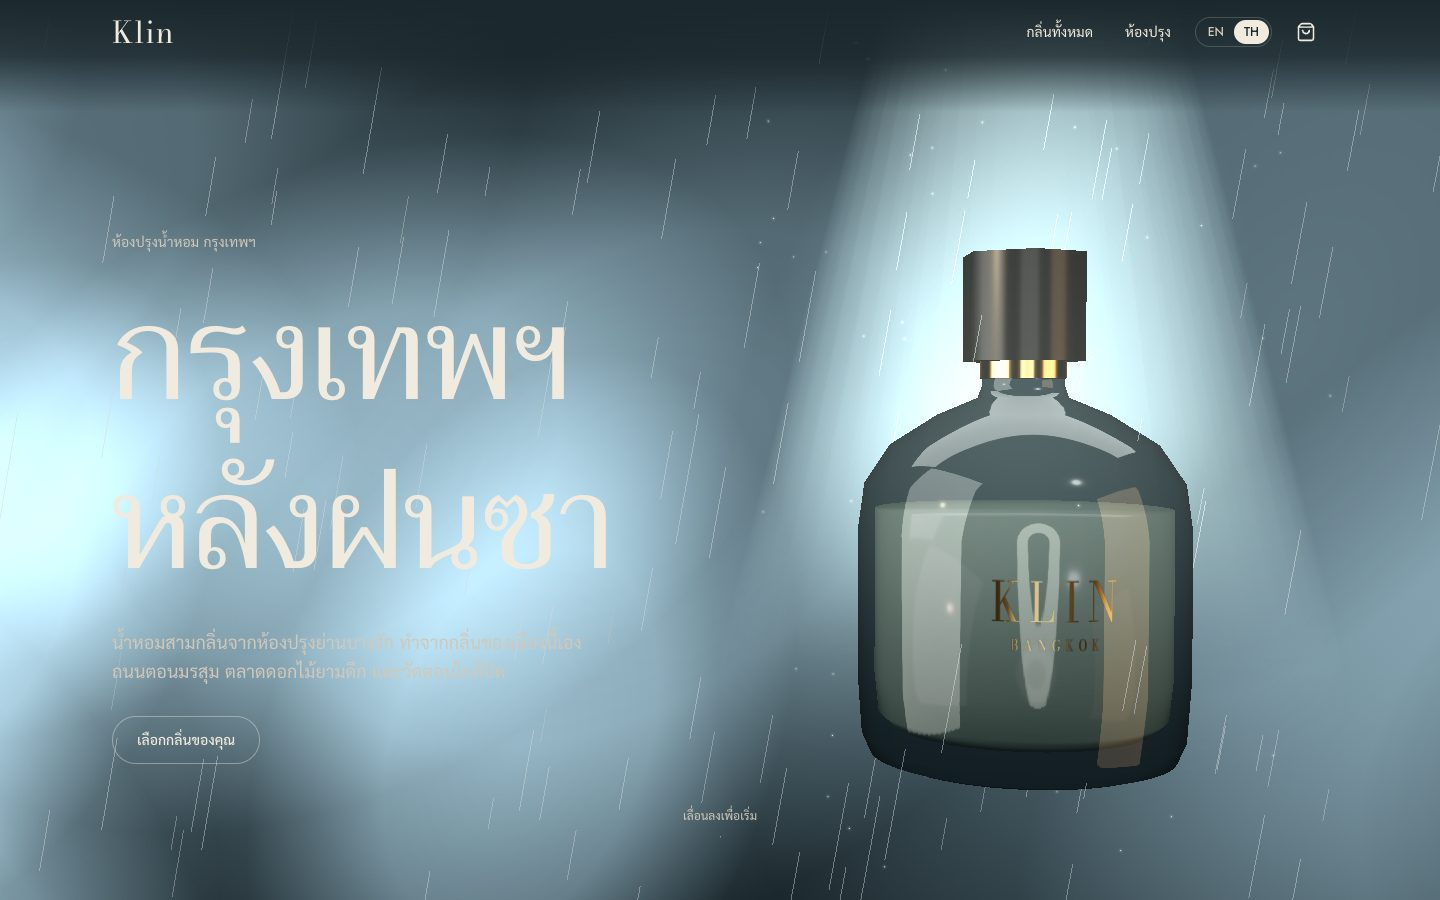
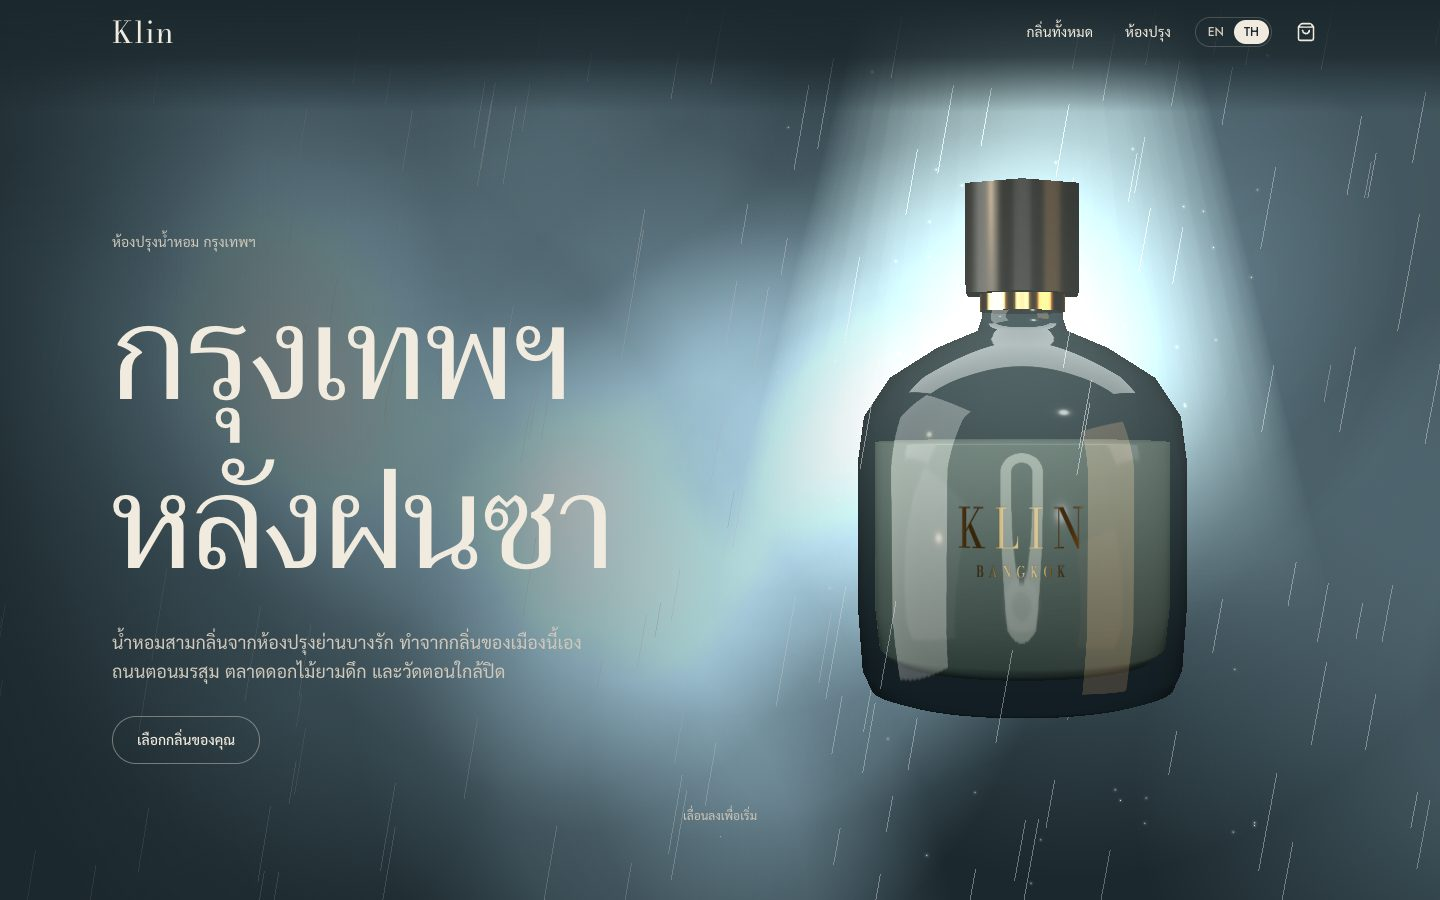
Move Klin's camera along a cinematic path through the chapters
The camera now travels one smooth curve of shots as the page scrolls:
the storm straight on, low across the wet stone for Monsoon, circling
above the jasmine, close on the wood for Agarwood, and pulled back for
the collection. It orbits the bottle, and a lens shift keeps the bottle
beside the text (right third on wide screens, upper screen on phones).
Reduced motion keeps a single view.

The storm's mist now gathers around the bottle, and a soft fade behind
the hero text keeps the headline readable through lightning.

diff --git a/src/features/klin/components/scene.tsx b/src/features/klin/components/scene.tsx
@@ -8,7 +8,7 @@ import * as THREE from "three"
 import { createRandom } from "@/lib/random"
 import { scents, type ScentId } from "../data/scents"
 import { bottleProfile, liquidProfile, sizeFactors } from "../lib/bottle"
-import { lightning, mixHex, nextTier, type SceneState, type Tier } from "../lib/story"
+import { CAMERA_SHOTS, cameraShot, lightning, mixHex, nextTier, type CameraShot, type SceneState, type Tier } from "../lib/story"
 
 /**
  * The fixed WebGL layer behind the page, painted in the page's own colour: a
@@ -56,7 +56,7 @@ export function KlinScene({ state, still: reduced, size }: { state: RefObject<Sc
         <Lightformer form="ring" intensity={2} position={[0, 0, 4]} scale={2} />
       </Environment>
       {!still && <Governor rich={rich} tier={tier} onChange={setTier} />}
-      <Story state={state} still={still} rich={tier === "full"} size={size} />
+      <Story state={state} still={still} calm={reduced} rich={tier === "full"} size={size} />
       {tier === "full" && (
         <EffectComposer multisampling={4}>
           <Bloom mipmapBlur intensity={0.85} luminanceThreshold={0.62} luminanceSmoothing={0.25} />
@@ -101,7 +101,7 @@ function Backdrop({ state, still }: { state: RefObject<SceneState>; still: boole
     const s = state.current
     if (!s) return
     const bolt = still ? 0 : lightning(clock.elapsedTime) * s.storm
-    paintBackdrop(scene, mixHex(s.backdrop, "#6f8d99", bolt * 0.35))
+    paintBackdrop(scene, mixHex(s.backdrop, "#6f8d99", bolt * 0.25))
     if (flash.current) flash.current.intensity = bolt * 90
   })
   return <pointLight ref={flash} position={[1, 6, -3]} distance={20} color="#cfe6ff" intensity={0} />
@@ -115,16 +115,26 @@ function paintBackdrop(scene: THREE.Scene, colour: string) {
 }
 
 /**
- * Pulls the camera back for the line-up, drifts it a little, and once the
- * collection scrolls up the screen raises it by the same share of its view,
- * so the bottles leave with the page.
+ * Puts the camera on its shot around the bottle (`target`), drifting a touch
+ * and following the pointer, then shifts the lens so the bottle sits beside
+ * the text instead of behind it: in the right third on wide screens, the upper
+ * part of a phone screen. Once the collection scrolls up the screen, camera
+ * and aim rise together by the same share of the view, so the bottles leave
+ * with the page.
  */
-function frameCamera(camera: THREE.PerspectiveCamera, distance: number, exit: number, drift: number) {
-  camera.position.z = distance
-  const viewHeight = 2 * distance * Math.tan(THREE.MathUtils.degToRad(camera.fov / 2))
-  camera.position.x = drift
-  camera.position.y = 0.2 - exit * viewHeight
-  camera.lookAt(0, camera.position.y - 0.2, 0)
+function frameCamera(
+  camera: THREE.PerspectiveCamera,
+  shot: CameraShot,
+  target: THREE.Vector3,
+  exit: number,
+  lens: { width: number; height: number; x: number; y: number },
+) {
+  const viewHeight = 2 * shot.radius * Math.tan(THREE.MathUtils.degToRad(camera.fov / 2))
+  const lift = exit * viewHeight
+  const flat = shot.radius * Math.cos(shot.elevation)
+  camera.position.set(target.x + flat * Math.sin(shot.azimuth), target.y + shot.radius * Math.sin(shot.elevation) - lift, target.z + flat * Math.cos(shot.azimuth))
+  camera.lookAt(target.x, target.y - lift, target.z)
+  camera.setViewOffset(lens.width, lens.height, lens.x, lens.y, lens.width, lens.height)
 }
 
 /** Eases a bottle's width and height (from its base) toward a size's proportions. */
@@ -137,11 +147,32 @@ function shapeToSize(group: THREE.Group, [width, height]: [number, number], dt: 
   group.position.y = 0.6 * (group.scale.y - 1)
 }
 
+function lerpShot(from: CameraShot, to: CameraShot, k: number): CameraShot {
+  return {
+    radius: THREE.MathUtils.lerp(from.radius, to.radius, k),
+    azimuth: THREE.MathUtils.lerp(from.azimuth, to.azimuth, k),
+    elevation: THREE.MathUtils.lerp(from.elevation, to.elevation, k),
+  }
+}
+
 const SLOT = 2.1
 /** The line-up stands in the upper half of the screen, above the collection cards. */
 const LINEUP_Y = 0.45
 
-function Story({ state, still, rich, size }: { state: RefObject<SceneState>; still: boolean; rich: boolean; size: RefObject<ChosenSize> }) {
+function Story({
+  state,
+  still,
+  calm,
+  rich,
+  size,
+}: {
+  state: RefObject<SceneState>
+  still: boolean
+  /** Reduced motion: the camera keeps one view instead of travelling with the scroll. */
+  calm: boolean
+  rich: boolean
+  size: RefObject<ChosenSize>
+}) {
   const hero = useRef<THREE.Group>(null)
   const shape = useRef<THREE.Group>(null)
   const leftShape = useRef<THREE.Group>(null)
@@ -152,6 +183,7 @@ function Story({ state, still, rich, size }: { state: RefObject<SceneState>; sti
   const heroLiquid = useRef<THREE.MeshPhysicalMaterial>(null)
   const pointer = useRef({ x: 0, y: 0 })
   const intro = useRef(still ? 1 : 0)
+  const aim = useMemo(() => new THREE.Vector3(), [])
   const { size: viewport, invalidate } = useThree()
   const narrow = viewport.width < 768
 
@@ -219,8 +251,20 @@ function Story({ state, still, rich, size }: { state: RefObject<SceneState>; sti
       group.current.rotation.y += still ? 0 : dt * 0.25
     }
 
-    const drift = still ? 0 : Math.sin(clock.elapsedTime * 0.12) * 0.12
-    frameCamera(camera as THREE.PerspectiveCamera, THREE.MathUtils.lerp(7, narrow ? 8.5 : 7.6, lineup), s.exit, drift)
+    // The camera travels its path of shots with the scroll (one fixed view for reduced motion), aimed at
+    // the middle of the resting bottle (not its rise or bob) or of the line-up
+    const path = calm ? lerpShot(CAMERA_SHOTS[0], CAMERA_SHOTS[CAMERA_SHOTS.length - 1], lineup) : cameraShot(s.shot)
+    const sway = still ? 0 : Math.sin(clock.elapsedTime * 0.12) * 0.03 + pointer.current.x * 0.05
+    const shot = { ...path, azimuth: path.azimuth + sway, radius: path.radius * (narrow ? THREE.MathUtils.lerp(1, 1.12, lineup) : 1) }
+    aim.set(THREE.MathUtils.lerp(narrow ? 0 : 1.35, 0, lineup), THREE.MathUtils.lerp(baseY + 0.585 * scale, LINEUP_Y + 0.585 * lineupScale, lineup), 0)
+    frameCamera(camera as THREE.PerspectiveCamera, shot, aim, s.exit, {
+      width: viewport.width,
+      height: viewport.height,
+      // Wide screens: the bottle in the right third beside the text, then the line-up centred above the
+      // collection cards. Phones: always in the upper part of the screen, above the text panels.
+      x: narrow ? 0 : -0.21 * viewport.width * (1 - lineup),
+      y: (narrow ? 0.24 : 0.2 * lineup) * viewport.height,
+    })
   })
 
   return (
@@ -701,13 +745,15 @@ function Mist({ state, still }: { state: RefObject<SceneState>; still: boolean }
   const dummy = useMemo(() => new THREE.Object3D(), [])
   const tint = useMemo(() => new THREE.Color(), [])
   const texture = useMemo(() => softDisc(), [])
-  const list = useMemo(() => puffs("klin:mist", MIST, [14, 6, 3], [2.5, 5]), [])
+  const list = useMemo(() => puffs("klin:mist", MIST, [8, 5, 3], [2.2, 4]), [])
   useFrame(({ clock, size }) => {
     const s = state.current
     if (!mesh.current || !s) return
     mesh.current.visible = s.storm > 0.01
-    const strength = s.storm * (size.width < 768 ? 0.07 : 0.16)
-    if (mesh.current.visible) placePuffs(mesh.current, dummy, tint, list, still ? 0 : clock.elapsedTime, strength, false, "#9fb6c2", 0)
+    const narrow = size.width < 768
+    const strength = s.storm * (narrow ? 0.06 : 0.075)
+    // Centred on the bottle (the camera aims there), so the brightest cloud stays behind it, not the headline
+    if (mesh.current.visible) placePuffs(mesh.current, dummy, tint, list, still ? 0 : clock.elapsedTime, strength, false, "#9fb6c2", narrow ? 0 : 1.35)
   })
   return (
     <instancedMesh ref={mesh} args={[undefined, undefined, MIST]} visible={false}>

diff --git a/src/features/klin/lib/story.ts b/src/features/klin/lib/story.ts
@@ -1,3 +1,4 @@
+import { CatmullRomCurve3, Vector3 } from "three"
 import { scents, type Scent } from "../data/scents"
 
 /** "#1b282d" → [27, 40, 45] */
@@ -48,6 +49,8 @@ export interface SceneState {
   exit: number
   /** The hero's storm (lightning, mist), fading as the hero scrolls away, 0–1. */
   storm: number
+  /** Position along the camera path (see `cameraShot`), 0–4. */
+  shot: number
   /** How much of each floor shows under the bottle: none in the storm, then each chapter's own. */
   stone: number
   lacquer: number
@@ -95,6 +98,7 @@ export function sceneAt({ hero, chapter, lineup, exit = 0 }: StoryPosition): Sce
     lineup: smoothstep(lineup),
     exit: Math.max(0, exit),
     storm: 1 - smoothstep(hero),
+    shot: shotProgress({ hero, chapter, lineup }),
     stone: weight("rain") * smoothstep(hero),
     lacquer: weight("petals") * smoothstep(hero),
     wood: weight("embers") * smoothstep(hero),
@@ -156,4 +160,42 @@ export function nextTier(tier: Tier, readings: readonly number[], canBeFull: boo
   if (tier === "full" && recent.every((fps) => fps < 30)) return "light"
   if (tier === "light" && recent.every((fps) => fps < 15)) return "still"
   return tier
+}
+
+/** Where the camera sits around the bottle: distance, angle round it (radians, + to the right) and height above it (radians). */
+export interface CameraShot {
+  radius: number
+  azimuth: number
+  elevation: number
+}
+
+/**
+ * One shot per beat, in order: the storm straight on and a little low, low
+ * across the wet stone for Monsoon, circling above for Jasmine, close on the
+ * wood for Agarwood, then pulled back for the line-up.
+ */
+export const CAMERA_SHOTS: readonly CameraShot[] = [
+  { radius: 7, azimuth: 0, elevation: 0.03 },
+  { radius: 6.4, azimuth: -0.42, elevation: 0.05 },
+  { radius: 6.6, azimuth: 0.55, elevation: 0.42 },
+  { radius: 6.1, azimuth: -0.22, elevation: 0.2 },
+  { radius: 7.6, azimuth: 0, elevation: 0.05 },
+]
+
+const shotPath = new CatmullRomCurve3(
+  CAMERA_SHOTS.map((shot) => new Vector3(shot.radius, shot.azimuth, shot.elevation)),
+  false,
+  "centripetal",
+)
+
+/** How far along the shots the page is: the hero 0→1, the chapters 1→3, the line-up 3→4. */
+export function shotProgress({ hero, chapter, lineup }: StoryPosition): number {
+  return clamp01(hero) + Math.min(scents.length - 1, Math.max(0, chapter)) + clamp01(lineup)
+}
+
+/** The camera shot at a point along the path, passing through each beat's shot on a smooth curve. */
+export function cameraShot(progress: number): CameraShot {
+  const t = Math.min(1, Math.max(0, progress / (CAMERA_SHOTS.length - 1)))
+  const point = shotPath.getPoint(t)
+  return { radius: point.x, azimuth: point.y, elevation: point.z }
 }

diff --git a/tests/unit/klin-story.test.ts b/tests/unit/klin-story.test.ts
@@ -198,3 +198,35 @@ describe("nextTier", async () => {
     expect(nextTier("still", [60, 60, 60], true)).toBe("still")
   })
 })
+
+describe("camera path", async () => {
+  const { CAMERA_SHOTS, cameraShot, shotProgress } = await import("@/features/klin/lib/story")
+
+  it("passes through each beat's shot", () => {
+    CAMERA_SHOTS.forEach((shot, i) => {
+      const at = cameraShot(i)
+      expect(at.radius).toBeCloseTo(shot.radius, 2)
+      expect(at.azimuth).toBeCloseTo(shot.azimuth, 2)
+      expect(at.elevation).toBeCloseTo(shot.elevation, 2)
+    })
+  })
+
+  it("moves smoothly between them, with no jumps", () => {
+    let last = cameraShot(0)
+    for (let p = 0.02; p <= 4; p += 0.02) {
+      const next = cameraShot(p)
+      expect(Math.abs(next.radius - last.radius)).toBeLessThan(0.1)
+      expect(Math.abs(next.azimuth - last.azimuth)).toBeLessThan(0.05)
+      expect(Math.abs(next.elevation - last.elevation)).toBeLessThan(0.05)
+      last = next
+    }
+  })
+
+  it("maps the page onto the path: hero, then chapters, then the line-up", () => {
+    expect(shotProgress({ hero: 0, chapter: 0, lineup: 0 })).toBe(0)
+    expect(shotProgress({ hero: 1, chapter: 0, lineup: 0 })).toBe(1)
+    expect(shotProgress({ hero: 1, chapter: 1.5, lineup: 0 })).toBe(2.5)
+    expect(shotProgress({ hero: 1, chapter: 2, lineup: 1 })).toBe(4)
+    expect(cameraShot(9)).toEqual(cameraShot(4))
+  })
+})

diff --git a/src/features/klin/components/klin-page.tsx b/src/features/klin/components/klin-page.tsx
@@ -139,7 +139,13 @@ export function KlinPage() {
       )}
 
       <main id="main" className="relative z-10">
-        <section ref={hero} id="top" aria-labelledby="klin-title" className="relative flex min-h-[100svh] items-end pt-24 pb-36 md:items-center md:pb-0">
+        <section
+          ref={hero}
+          id="top"
+          aria-labelledby="klin-title"
+          // On wide screens a fade of the page colour sits behind the text, so lightning and mist never wash it out
+          className="relative isolate flex min-h-[100svh] items-end pt-24 pb-36 md:items-center md:pb-0 md:before:pointer-events-none md:before:absolute md:before:inset-y-0 md:before:left-0 md:before:-z-10 md:before:w-[62%] md:before:bg-gradient-to-r md:before:from-[var(--klin-backdrop)]/85 md:before:via-[var(--klin-backdrop)]/55 md:before:to-transparent"
+        >
           <div className="mx-auto w-full max-w-7xl px-5 sm:px-8">
             {/* On phones the hero text sits over the storm's light; a fade of the page colour keeps it legible */}
             <div className="relative max-w-xl before:absolute before:-inset-x-5 before:-top-20 before:-bottom-24 before:-z-10 before:bg-gradient-to-t before:from-[var(--klin-backdrop)] before:via-[var(--klin-backdrop)]/85 before:to-transparent md:max-w-[52%] md:before:hidden">

diff --git a/ROADMAP.md b/ROADMAP.md
@@ -39,7 +39,8 @@ Asked for on 2026-11-01: a showcase that goes big on visual effects, 3D and scro
 - [x] Feedback 2026-11-01, first luxury pass: bloom, fine grain and vignette (postprocessing), refracting glass with colour fringing (drei MeshTransmissionMaterial), "KLIN / BANGKOK" engraved in gold on the glass (drawn in the page's Bodoni once the font loads), dust turning in the beam, a slow camera drift. The full look switches on only once a big screen holds a good frame rate (drei PerformanceMonitor) and drops back if it sags; phones and slow machines keep the light scene
 - [x] Found while building it: headless Chromium draws WebGL on the CPU (SwiftShader, about 2.5 fps for this page), and CI failed the Klin e2e on GitHub's 2-CPU runners even with the first, lighter scene. A frame-rate governor now picks one of three looks: light to start, full once a big screen holds over 45 fps, and still frames drawn only on scroll when a device stays under 15 fps (a weak laptop gets a usable page; tests get their CPU back). `capture-showcase` uses the Mac GPU through ANGLE Metal (about 55 fps) so the portal shots show the full look
 - [x] Found while building it: as an `alphaMap`, three.js reads the green channel, so a white disc fading only in alpha gave the floors a hard edge; the alpha version fades white to black. Screenshots of a busy canvas sometimes came back empty until the canvas kept its drawing buffer
-- [ ] A cinematic camera path through the chapters (a CatmullRom spline sampled by scroll, as in Codrops' Blender-path-to-scroll gallery): low across the wet stone for Monsoon, circling above for Jasmine, close on the wood grain for Agarwood
+- [x] A cinematic camera path through the chapters (a centripetal CatmullRom spline through one shot per beat, sampled by scroll, as in Codrops' Blender-path-to-scroll gallery): the storm straight on, low across the wet stone for Monsoon, circling above for Jasmine, close on the wood for Agarwood, pulled back for the line-up. The camera orbits the resting bottle and a lens shift (`setViewOffset`) keeps it in the right third on wide screens and the upper screen on phones, so the text column stays clear; reduced motion keeps one view
+- [x] Found while building it: once the camera aimed at the bottle, the storm's mist (centred on the scene origin) slid behind the headline and, bloomed, washed it out. The mist now centres on the bottle, and a fade of the page colour sits behind the hero text on wide screens so lightning never hides it
 - [ ] Chapter handovers as a shader dissolve (noise-masked wipe between one stage and the next) instead of a straight crossfade
 - [ ] More from award-winning 3D sites (asked for 2026-11-01: make every section as different and spectacular as possible, keep researching): a preloader where the bottle fills as assets load; hero title letters that split and fall like rain on scroll (GSAP SplitText); Jasmine with strings of market bulbs glowing out of focus; drag to spin a bottle in the collection, with hover lifting it into the beam; scroll-speed blur/distortion on the canvas; a custom cursor that becomes a droplet over the bottle; magnetic buttons; an optional rain soundscape toggle (off by default)
 - [ ] Share cards (`og-cards.tsx`, layout `openGraph.images`), and a quick Lighthouse check of the page (the 3D layer is code-split and loads after the text)
